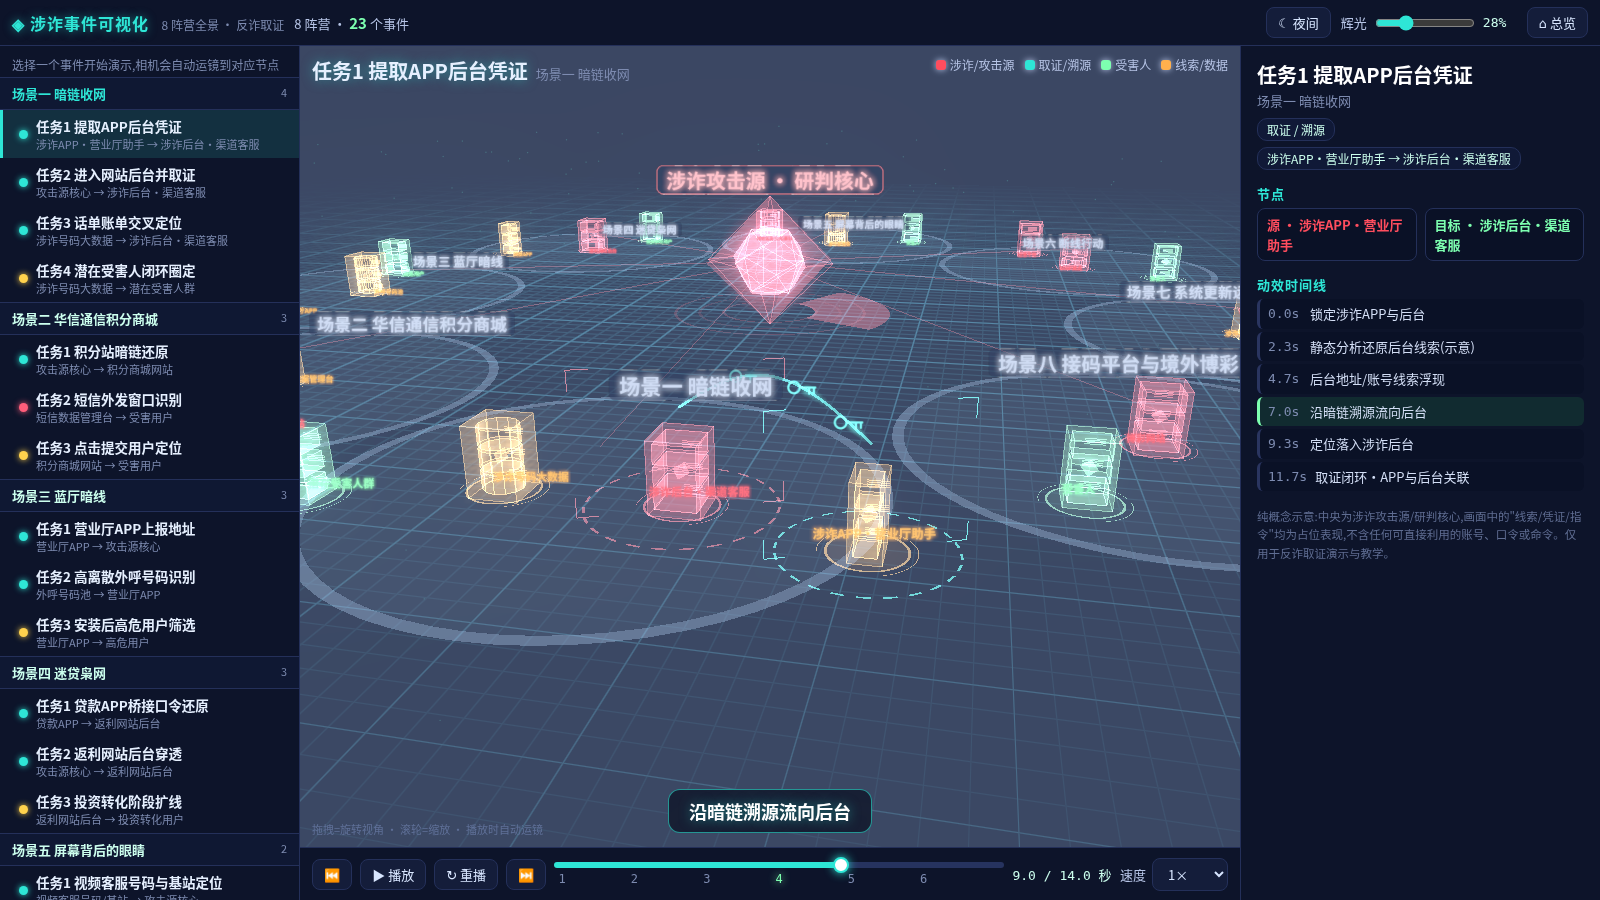
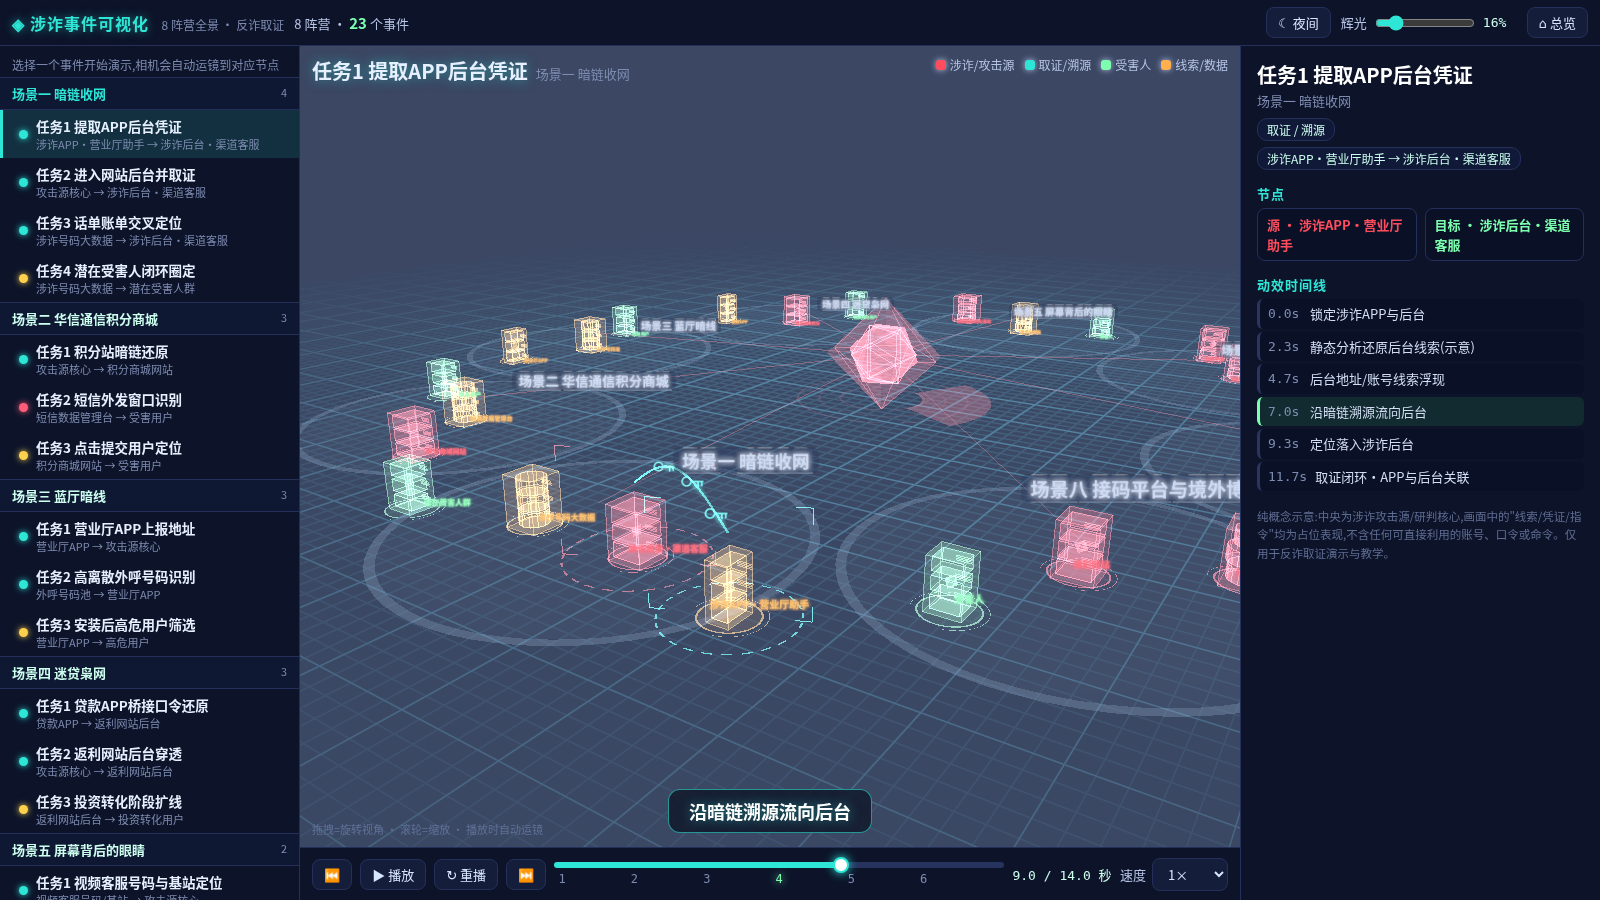
压暗夜间观感消除泛白;统一攻击事件运镜角度;隐藏中央核心名称

Changed region(s): [[0.1875, 0.1867, 0.7812, 0.8089]]

diff --git a/js/stage-world.js b/js/stage-world.js
@@ -3,6 +3,8 @@
 'use strict';
 const S = window.SEC, T = S.T, V3 = S.V3, { COL, col, clamp, sm, eo, rng, U, Glow, Node, PR, Ctx, holoMat, addMat, lineMat, textSprite, AZ } = S;
 const W = window.FRAUD_WORLD;
+  // 大场景节点多,整体降一档辉光避免发白
+  if (S.TUNE) { S.TUNE.glowA = 0.4; S.TUNE.glowS = 0.72; }
 const lerp = (a, b, k) => a + (b - a) * k;
 const easeIO = x => x < 0.5 ? 4 * x * x * x : 1 - Math.pow(-2 * x + 2, 3) / 2;
 
@@ -45,14 +47,14 @@ function Stage(canvas, host) {
   grid.rotation.x = -Math.PI / 2; grid.position.y = -0.02; scene.add(grid);
 
   const glow = new Glow(26000); scene.add(glow.points);
-  const ambient = []; { const r = rng(7); for (let i = 0; i < 160; i++) ambient.push([(r() - .5) * 120, r() * 10, (r() - .5) * 120, r() * 6.28, 0.4 + r() * 0.8]); }
+  const ambient = []; { const r = rng(7); for (let i = 0; i < 70; i++) ambient.push([(r() - .5) * 90, r() * 8, (r() - .5) * 90, r() * 6.28, 0.4 + r() * 0.8]); }
 
   // ---- 阵营地台 + 名称 ----
   const campLabels = [];
   W.CAMPS.forEach((camp, ci) => {
     const p = camp.pos; const g = new T.Group(); g.position.set(p.x, 0, p.z);
-    const ring = new T.Mesh(new T.RingGeometry(10.5, 11.0, 64), addMat(COL.info, 0.18, T.DoubleSide)); ring.rotation.x = -Math.PI / 2; ring.position.y = 0.01; g.add(ring);
-    const disk = new T.Mesh(new T.CircleGeometry(10.5, 48), addMat(COL.info, 0.03, T.DoubleSide)); disk.rotation.x = -Math.PI / 2; disk.position.y = 0.005; g.add(disk);
+    const ring = new T.Mesh(new T.RingGeometry(10.5, 11.0, 64), addMat(COL.info, 0.10, T.DoubleSide)); ring.rotation.x = -Math.PI / 2; ring.position.y = 0.01; g.add(ring);
+    const disk = new T.Mesh(new T.CircleGeometry(10.5, 48), addMat(COL.info, 0.015, T.DoubleSide)); disk.rotation.x = -Math.PI / 2; disk.position.y = 0.005; g.add(disk);
     scene.add(g);
     const lab = textSprite(camp.name, { h: 1.6, color: '#9fb6e6', bg: 'rgba(9,14,32,0.6)' }); lab.position.set(p.x, 0.2, p.z + 12.5); scene.add(lab); campLabels.push({ lab, baseC: '#9fb6e6' });
   });
@@ -67,13 +69,13 @@ function Stage(canvas, host) {
   const shellEdge = new T.LineSegments(new T.EdgesGeometry(new T.OctahedronGeometry(4.2, 0)), lineMat(col('atk'), 0.35)); shellEdge.position.y = 3.4; core.add(shellEdge);
   // 脚下雷达环(多层)
   const radar = []; for (let i = 0; i < 3; i++) { const m = new T.Mesh(new T.RingGeometry(3 + i * 1.6, 3.2 + i * 1.6, 72), addMat(col('atk'), 0.4, T.DoubleSide)); m.rotation.x = -Math.PI / 2; m.position.y = 0.05; core.add(m); radar.push(m); }
-  const sweepM = new T.Mesh(new T.RingGeometry(3, 8, 64, 1, 0, Math.PI * 0.5), addMat(col('atk'), 0.25, T.DoubleSide)); sweepM.rotation.x = -Math.PI / 2; sweepM.position.y = 0.06; core.add(sweepM);
+  const sweepM = new T.Mesh(new T.RingGeometry(3, 8, 64, 1, 0, Math.PI * 0.5), addMat(col('atk'), 0.16, T.DoubleSide)); sweepM.rotation.x = -Math.PI / 2; sweepM.position.y = 0.06; core.add(sweepM);
   // 向 8 阵营放射的"攻击源"连线(常驻、低亮)
   const spokes = []; W.CAMPS.forEach(camp => {
     const q = camp.pos; const geo = new T.BufferGeometry().setFromPoints([new V3(0, 3.4, 0), new V3(q.x, 1.6, q.z)]);
     const l = new T.Line(geo, lineMat(col('atk'), 0.14)); scene.add(l); spokes.push(l);
   });
-  const coreTag = textSprite('涉诈攻击源 · 研判核心', { h: 1.9, color: '#ff8a98', bg: 'rgba(9,14,32,0.72)', border: '#ff4d5e' }); coreTag.position.set(0, 8.6, 0); core.add(coreTag);
+  const coreTag = textSprite('涉诈攻击源 · 研判核心', { h: 1.9, color: '#ff8a98', bg: 'rgba(9,14,32,0.72)', border: '#ff4d5e' }); coreTag.position.set(0, 8.6, 0); coreTag.visible = false; core.add(coreTag);
   const coreProxy = { center: () => new V3(0, 3.4, 0), topPt: () => new V3(0, 6.2, 0), isCore: true };
 
   // ---- 世界节点 ----
@@ -83,8 +85,8 @@ function Stage(canvas, host) {
 
   // ---- 后处理 ----
   let composer = null, bloom = { strength: 0.2, threshold: 0.78 };
-  try { composer = new T.EffectComposer(renderer); composer.addPass(new T.RenderPass(scene, cam)); bloom = new T.UnrealBloomPass(new T.Vector2(960, 540), 0.28, 0.5, 0.78); composer.addPass(bloom); } catch (e) { console.error(e); composer = null; self.safe = true; }
-  self.bloomUser = 0.28; self.bloomNight = 0.78;
+  try { composer = new T.EffectComposer(renderer); composer.addPass(new T.RenderPass(scene, cam)); bloom = new T.UnrealBloomPass(new T.Vector2(960, 540), 0.16, 0.7, 0.86); composer.addPass(bloom); } catch (e) { console.error(e); composer = null; self.safe = true; }
+  self.bloomUser = 0.16; self.bloomNight = 0.86;
   self.setBloom = v => { self.bloomUser = v; bloom.strength = (S.day ? 0.5 : 1) * v; };
   self.applyTheme = function (theme) {
     const day = theme === 'light'; S.day = day; const pal = S.paintPalette(day ? 'light' : 'dark');
@@ -112,12 +114,15 @@ function Stage(canvas, host) {
   let ctx = null, ups = [], ev = null;
   function framing(from, to) {
     const a = resolve(from).center(), b = resolve(to).center();
-    const mid = a.clone().add(b).multiplyScalar(0.5); const target = new V3(mid.x, 3.2, mid.z);
-    // 相机沿 target 的朝外方向就位,回看中心,保证 core 与节点都入镜
+    const pair = a.clone().add(b).multiplyScalar(0.5);
+    // 目标点:偏向这对节点,同时略带中心,保证中央攻击源始终在画面里
+    const coreC = new V3(0, 3.2, 0);
+    const target = pair.clone().lerp(coreC, 0.32); target.y = 3.2;
+    // 统一成偏低、略带 3/4 的攻击视角
     const dirOut = new V3(target.x, 0, target.z); if (dirOut.length() < 1) dirOut.set(0, 0, 1); dirOut.normalize();
-    const az = Math.atan2(dirOut.x, dirOut.z);
-    const sep = a.distanceTo(b); const dist = clamp(26 + sep * 0.75, 30, 60);
-    target.y = 3.0; return { az, el: 21 * Math.PI / 180, dist, target };
+    const az = Math.atan2(dirOut.x, dirOut.z) + 22 * Math.PI / 180;
+    const sep = a.distanceTo(b); const dist = clamp(46 + sep * 0.55, 50, 74);
+    return { az, el: 18.5 * Math.PI / 180, dist, target };
   }
   function buildFx(e) {
     const F = resolve(e.from), Tg = resolve(e.to);
@@ -157,16 +162,16 @@ function Stage(canvas, host) {
   self.draw = function (t) {
     if (self.lost) return; updateTween(); U.uTime.value = t; glow.clear();
     // 环境粒子
-    ambient.forEach(a => glow.add(a[0] + Math.sin(t * .2 * a[4] + a[3]) * .8, a[1] + Math.sin(t * .15 * a[4]) * .4, a[2] + Math.cos(t * .18 * a[4] + a[3]) * .6, 0.06, COL.def, S.day ? 0.12 : 0.22));
+    ambient.forEach(a => glow.add(a[0] + Math.sin(t * .2 * a[4] + a[3]) * .8, a[1] + Math.sin(t * .15 * a[4]) * .4, a[2] + Math.cos(t * .18 * a[4] + a[3]) * .6, 0.05, COL.def, S.day ? 0.08 : 0.12));
     // 核心动效
     coreMesh.rotation.y = t * 0.5; coreMesh.rotation.x = t * 0.25; shell.rotation.y = -t * 0.3;
     const pulse = 1 + 0.08 * Math.sin(t * 3); coreMesh.scale.setScalar(pulse);
     coreMat.uniforms.uColor.value.copy(col('atk')); shellMat.uniforms.uColor.value.copy(col('atk'));
-    radar.forEach((m, i) => { m.material.color.copy(col('atk')); m.material.opacity = (0.32 - i * 0.07) * (0.6 + 0.4 * Math.sin(t * 2 - i)); });
+    radar.forEach((m, i) => { m.material.color.copy(col('atk')); m.material.opacity = (0.22 - i * 0.05) * (0.6 + 0.4 * Math.sin(t * 2 - i)); });
     sweepM.rotation.z = -t * 1.1; sweepM.material.color.copy(col('atk'));
     spokes.forEach(l => { l.material.color.copy(col('atk')); l.material.opacity = S.day ? 0.12 : 0.14 + 0.05 * Math.sin(t * 1.5); });
     for (const o of [coreEdge, shellEdge]) o.material.color.copy(col('atk'));
-    glow.add(0, 3.4, 0, 2.6 * pulse, col('atk'), 0.9);
+    glow.add(0, 3.4, 0, 1.7 * pulse, col('atk'), 0.65);
     // 节点 reset + 事件 + apply
     nodes.forEach(n => n.reset());
     for (let i = 0; i < ups.length; i++) { try { ups[i](t); } catch (err) { self.errors.push((ev ? ev.id : '') + '@' + t.toFixed(2) + ':' + err.message); ups[i] = () => {}; } }

diff --git a/js/app-world.js b/js/app-world.js
@@ -24,7 +24,7 @@ function init() {
   $('scrub').oninput = () => { ST.t = $('scrub').value / 100; ST.playing = false; sync(); };
   $('speed').onchange = () => { ST.speed = +$('speed').value; };
   $('bHome').onclick = () => { ST.playing = false; ST.cur = -1; $('title').innerHTML = `<b>总览</b><span>8 阵营全景</span>`; $('cap').textContent = ''; renderList(); if (stage) stage.overview(); };
-  const bl = $('bloom'); bl.value = 28; const setB = () => { stage && stage.setBloom(bl.value / 100); $('bloomV').textContent = bl.value + '%'; }; bl.oninput = setB; setB();
+  const bl = $('bloom'); bl.value = 16; const setB = () => { stage && stage.setBloom(bl.value / 100); $('bloomV').textContent = bl.value + '%'; }; bl.oninput = setB; setB();
   addEventListener('keydown', e => {
     if (e.target.tagName === 'INPUT') return; const k = e.key;
     if (k === ' ') { e.preventDefault(); $('bPlay').click(); } else if (k === 'r' || k === 'R') $('bReplay').click();

diff --git a/index.html b/index.html
@@ -16,7 +16,7 @@
     <div class="grow"></div>
     <a class="navbtn" href="scene1.html" title="单场景细看:场景一·任务1">▸ 单场景细看</a>
     <button id="bTheme" type="button" title="当前夜间,点击切换到日间" aria-pressed="false">☾ 夜间</button>
-    <label class="bl" title="全局辉光强度">辉光 <input id="bloom" autocomplete="off" type="range" min="0" max="100" step="1" value="28"><span id="bloomV">28%</span></label>
+    <label class="bl" title="全局辉光强度">辉光 <input id="bloom" autocomplete="off" type="range" min="0" max="100" step="1" value="16"><span id="bloomV">16%</span></label>
     <button id="bHome" title="回到 8 阵营总览视角">⌂ 总览</button>
   </header>
   <main>
